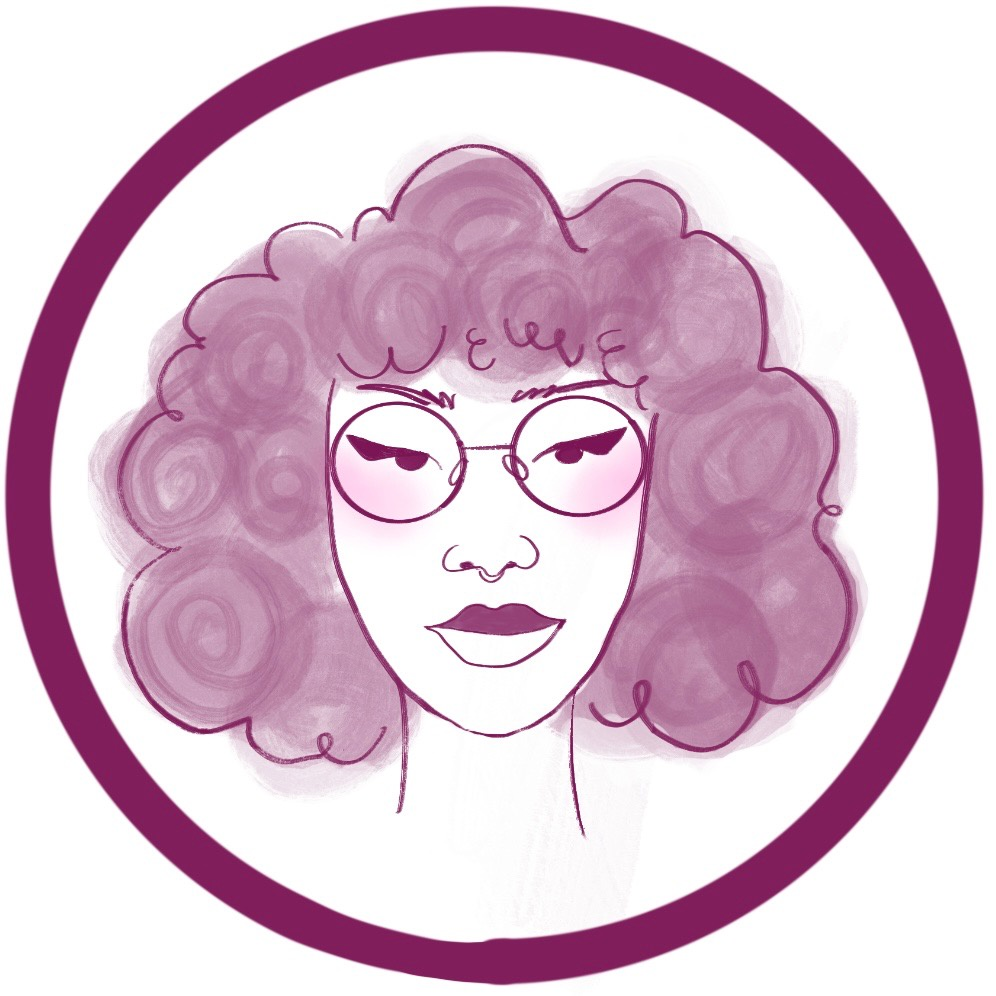
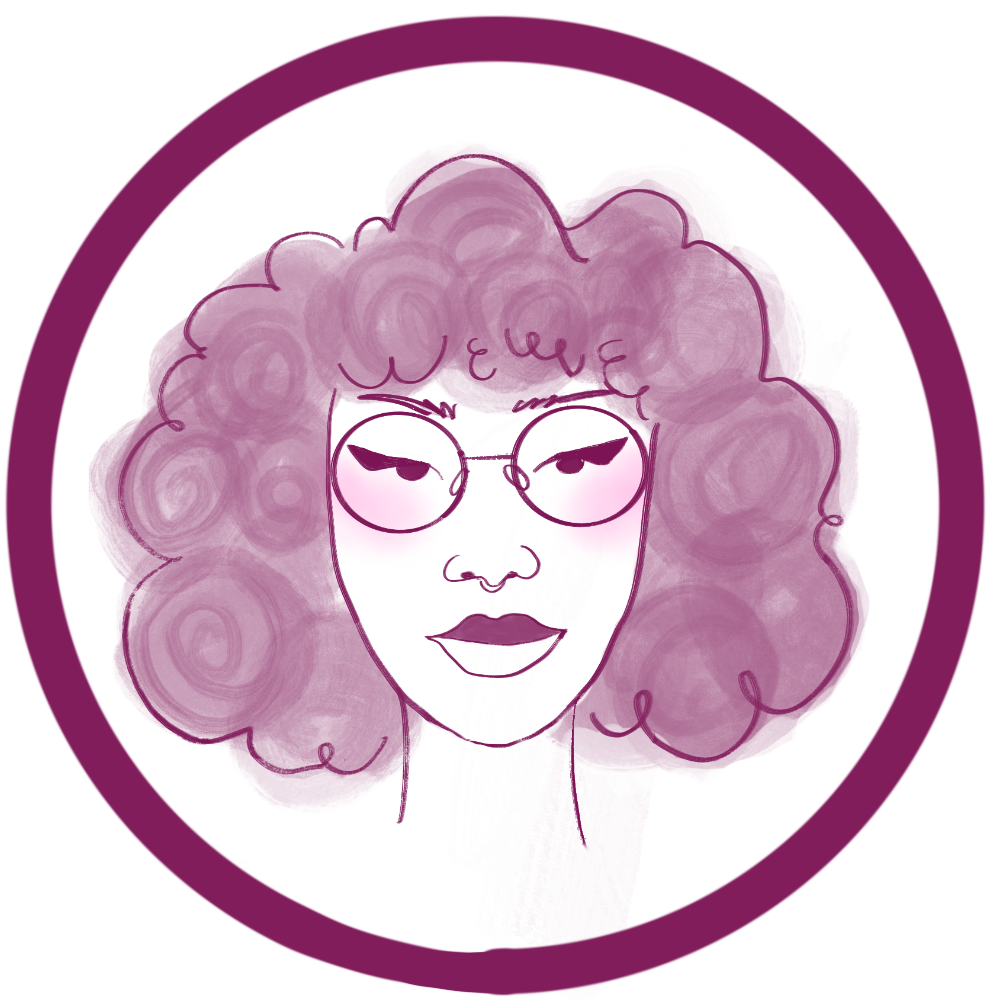
update

diff --git a/src/pages/Homepage.tsx b/src/pages/Homepage.tsx
@@ -9,9 +9,9 @@ function Homepage() {
       <section className="hero">
         <div className="hero-content">
           <div className="hero-image-container">
-            <img 
-              src={selfPortrait} 
-              alt="Anna Agoha" 
+            <img
+              src={selfPortrait}
+              alt="Anna Agoha"
               className="hero-image"
             />
           </div>
@@ -21,42 +21,34 @@ function Homepage() {
                 Creative Platform Engineer building reliable, human-centered systems at scale.
             </p>
             <div className="hero-icons">
-              <a 
-                href="https://linkedin.com/in/anna-agoha" 
-                target="_blank" 
-                rel="noopener noreferrer"
-                className="icon-link"
-                aria-label="LinkedIn"
-              >
-                <div 
-                  className="icon-svg" 
-                  style={{ 
-                    WebkitMaskImage: `url(${linkedinIcon})`,
-                    maskImage: `url(${linkedinIcon})`,
-                    backgroundColor: 'var(--accent-color)'
-                  }}
-                  role="img"
-                  aria-label="LinkedIn"
-                />
-              </a>
-              <a 
-                href="https://github.com/strangeforloop" 
-                target="_blank" 
-                rel="noopener noreferrer"
-                className="icon-link"
-                aria-label="GitHub"
-              >
-                <div 
-                  className="icon-svg" 
-                  style={{ 
-                    WebkitMaskImage: `url(${githubIcon})`,
-                    maskImage: `url(${githubIcon})`,
-                    backgroundColor: 'var(--accent-color)'
-                  }}
-                  role="img"
-                  aria-label="GitHub"
-                />
-              </a>
+            <a 
+  href="https://linkedin.com/in/anna-agoha" 
+  target="_blank" 
+  rel="noopener noreferrer"
+  className="icon-link"
+  aria-label="LinkedIn"
+>
+  <img
+    src={linkedinIcon}
+    alt="LinkedIn"
+    className="icon-svg"
+  />
+</a>
+
+<a 
+  href="https://github.com/strangeforloop" 
+  target="_blank" 
+  rel="noopener noreferrer"
+  className="icon-link"
+  aria-label="GitHub"
+>
+  <img
+    src={githubIcon}
+    alt="GitHub"
+    className="icon-svg"
+  />
+</a>
+
             </div>
           </div>
         </div>
@@ -65,23 +57,22 @@ function Homepage() {
       <section className="content-section">
         <h2>About Me</h2>
         <p>
-        Hi, I’m Anna — a full-stack and platform engineer who loves building scalable systems end-to-end.
-One of my early roles was in digital health, where I helped build the first wave of digital therapeutics at Pear Therapeutics, including an FDA-regulated digital therapeutic for major depressive disorder. There, I built scalable frontend and backend features using React, React Native, TypeScript, GraphQL, and event-driven architecture to deliver scalable, user-centered experiences. That experience taught me to approach engineering with both scale and intention and to build systems that are technically sound, product-driven, and aligned with real user needs.
+          Hi, I'm Anna, a full-stack and platform engineer who loves building scalable systems end-to-end.
+          One of my early roles was in digital health, where I helped build the first wave of digital therapeutics at Pear Therapeutics, including an FDA-regulated digital therapeutic for major depressive disorder. There, I built scalable frontend and backend features using React, React Native, TypeScript, GraphQL, and event-driven architecture to deliver scalable, user-centered experiences. That experience taught me to approach engineering with both scale and intention and to build systems that are technically sound, product-driven, and aligned with real user needs.
 
-<br></br><br></br>
-Today, I’m a Platform Engineer at Wells Fargo, designing and maintaining foundation-level services used across 40+ internal applications. My work spans everything from backend architecture and data flows to the frontend dashboards engineers rely on 
-<br></br><br></br>
-Across my roles, I’ve consistently owned products from concept to deployment, bridging design, infrastructure, and user needs to build systems that scale and make positive impacts on the world.
-
+          <br></br><br></br>
+          Today, I'm a Platform Engineer at Wells Fargo, designing and maintaining foundation-level services used across 40+ internal applications. My work spans everything from backend architecture and data flows to the frontend dashboards engineers rely on
+          <br></br><br></br>
+          Across my roles, I've consistently owned products from concept to deployment, bridging design, infrastructure, and user needs to build systems that scale and make positive impacts on the world.
         </p>
       </section>
 
       <section className="content-section">
         <h2>Featured Projects</h2>
         <div className="projects-grid">
-          <a 
-            href="https://github.com/strangeforloop/react-mulitplayer-ai" 
-            target="_blank" 
+          <a
+            href="https://github.com/strangeforloop/react-mulitplayer-ai"
+            target="_blank"
             rel="noopener noreferrer"
             className="project-card project-card-link"
           >

diff --git a/src/pages/Homepage.css b/src/pages/Homepage.css
@@ -93,6 +93,7 @@
   -webkit-mask-size: contain;
   -webkit-mask-repeat: no-repeat;
   -webkit-mask-position: center;
+  /* background-color: var(--accent-color); */
 }
 
 .icon-link:hover .icon-svg {

diff --git a/src/App.css b/src/App.css
@@ -100,3 +100,9 @@
   transition: background-color 0.3s ease;
 }
 
+.icon-svg {
+  width: 32px;
+  height: 32px;
+  display: block;
+  fill: var(--accent-color);
+}
